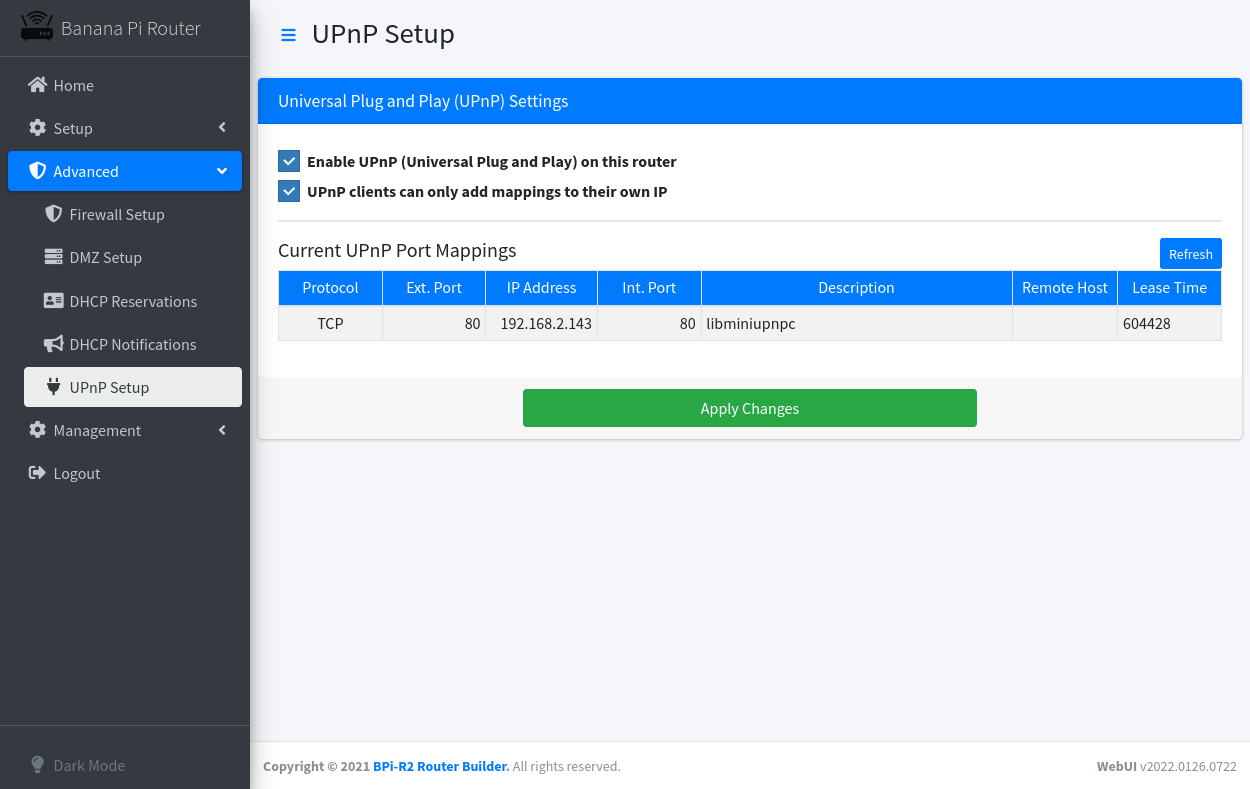
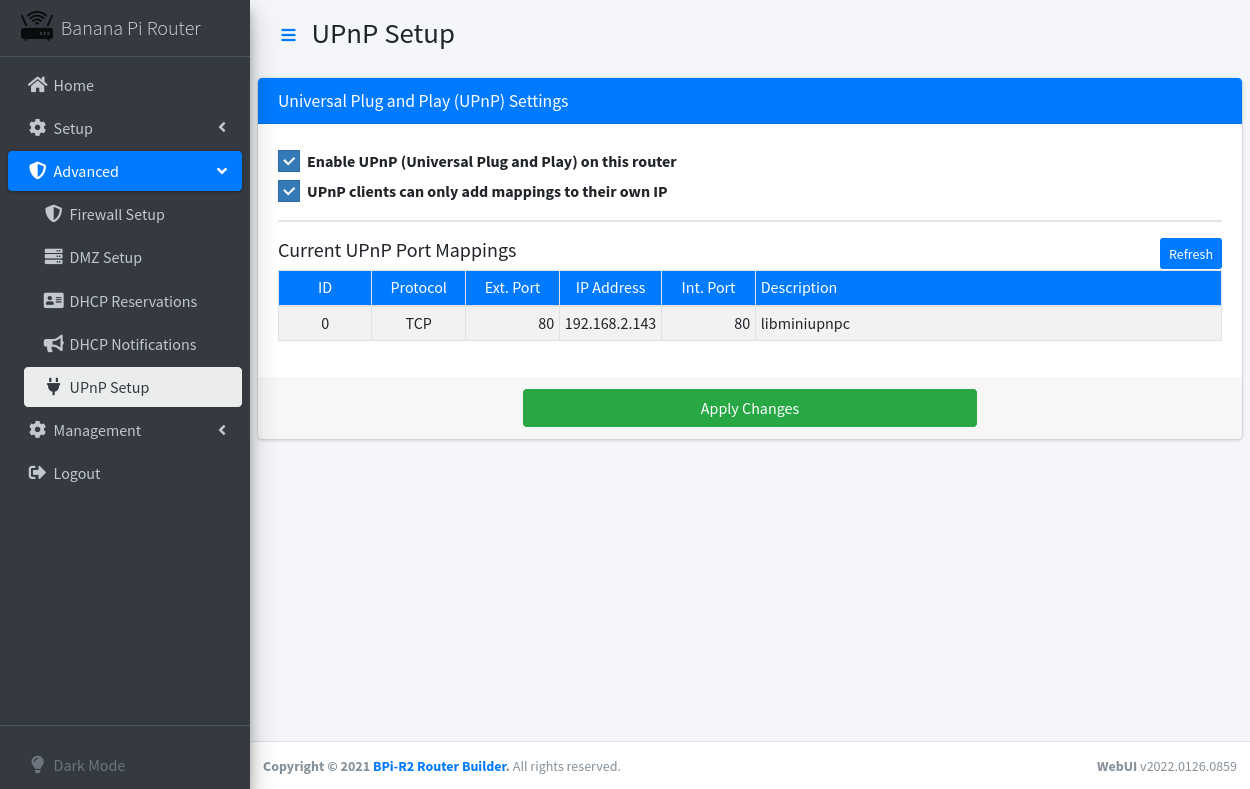
Updated WebUI Advanced / UPnP Settings

diff --git a/router/js/site-advanced.js b/router/js/site-advanced.js
@@ -410,7 +410,10 @@ function UPnP_Submit()
 		if (data == "RELOAD")
 			document.location.reload(true);
 		else if (data == "OK")
+		{
 			$("#apply-modal").modal("hide");
+			$("#upnp_refresh").click();
+		}
 		else
 		{
 			$("#apply_msg").html(data);

diff --git a/router/includes/advanced-upnp.php b/router/includes/advanced-upnp.php
@@ -14,24 +14,24 @@ if (isset($_POST['action']))
 	#################################################################################################
 	if ($_POST['action'] == 'list')
 	{
-		$str = '';
+		$str = array();
 		foreach (explode("\n", trim(@shell_exec('/opt/bpi-r2-router-builder/helpers/router-helper.sh upnp list'))) as $line)
 		{
 			if (preg_match("/(\d+)\s+(TCP|UDP)\s+(\d+)\-\>(\d+\.\d+\.\d+\.\d+):(\d+)\s+\'([^\']*)\'\s+\'([^\']*)\' (\d+)/", $line, $regex))
 			{
-				$str .=
+				$str[(int) $regex[3]] =
 					'<tr>' .
+						'<td><center>' . strval(((int) $regex[1]) + 1) . '</center></td>' .	// ID
 						'<td><center>' . $regex[2] . '</center></td>' .	// UDP or TCP
 						'<td><span class="float-right">' . $regex[3] . '</span></td>' .	// External Port
 						'<td><span class="float-right">' . $regex[4] . '</span></td>' .	// IP Address
 						'<td><span class="float-right">' . $regex[5] . '</span></td>' .	// External Port
 						'<td>' . $regex[6] . '</td>' .	// Description
-						'<td>' . $regex[7] . '</td>' .	// Remote Host (?)
-						'<td>' . $regex[8] . '</td>' .	// Lease Time
 					'</tr>';
 			}
 		}
-		die( !empty($str) ? $str : '<tr><td colspan="7"><center>No UPnP Port Mappings</center></td></tr>' );
+		ksort($str);
+		die( !empty($str) ? implode("", $str) : '<tr><td colspan="7"><center>No UPnP Port Mappings</center></td></tr>' );
 	}
 	#################################################################################################
 	# ACTION: SUBMIT ==> Update the UPnP configuration, per user settings:
@@ -71,13 +71,12 @@ echo '
 		<div class="table-responsive p-0">
 			<table class="table table-hover text-nowrap table-sm table-striped table-bordered">
 				<thead class="bg-primary">
+					<td width="10%"><center>ID</center></td>
 					<td width="10%"><center>Protocol</center></td>
 					<td width="10%"><center>Ext. Port</center></td>
 					<td width="10%"><center>IP Address</center></td>
 					<td width="10%"><center>Int. Port</center></td>
-					<td width="30%"><center>Description</center></td>
-					<td width="10%"><center>Remote Host</center></td>
-					<td width="10%"><center>Lease Time</center></td>
+					<td width="50%">Description</td>
 				</thead>
 				<tbody id="upnp-table">
 					<tr><td colspan="7"><center>Loading...</center></td></tr>
